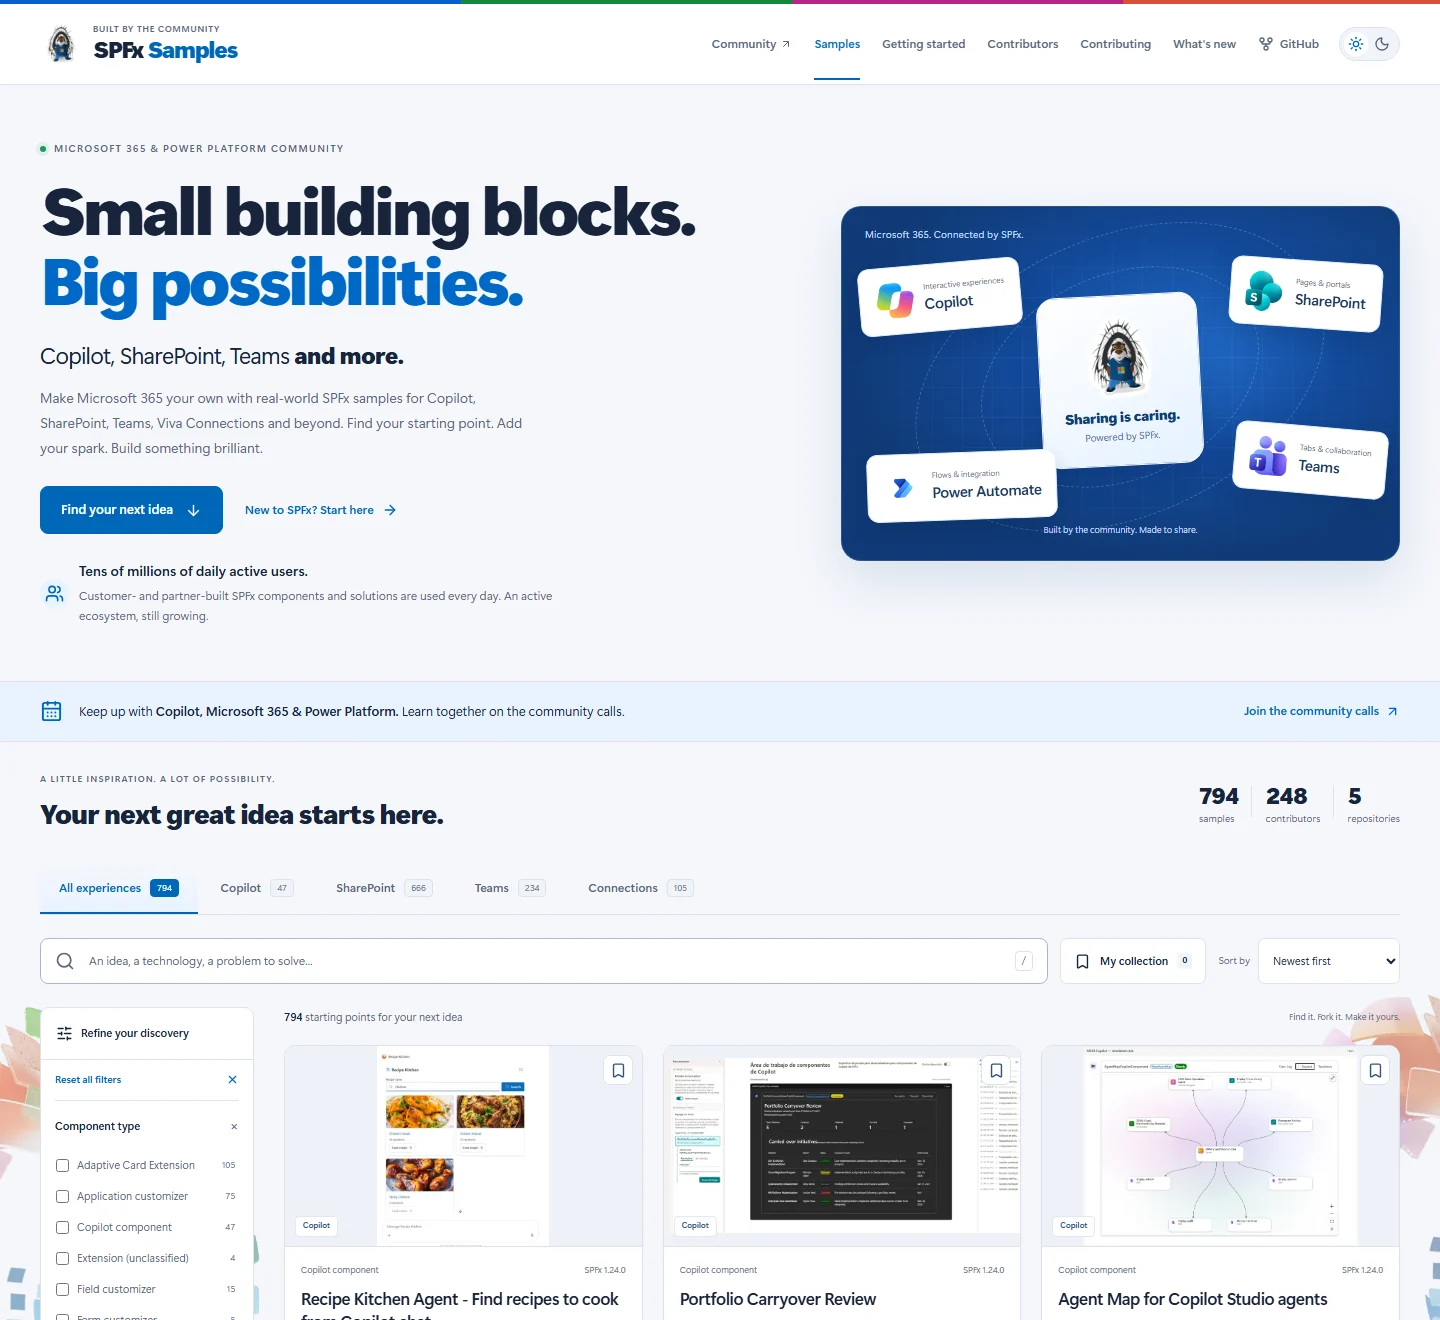
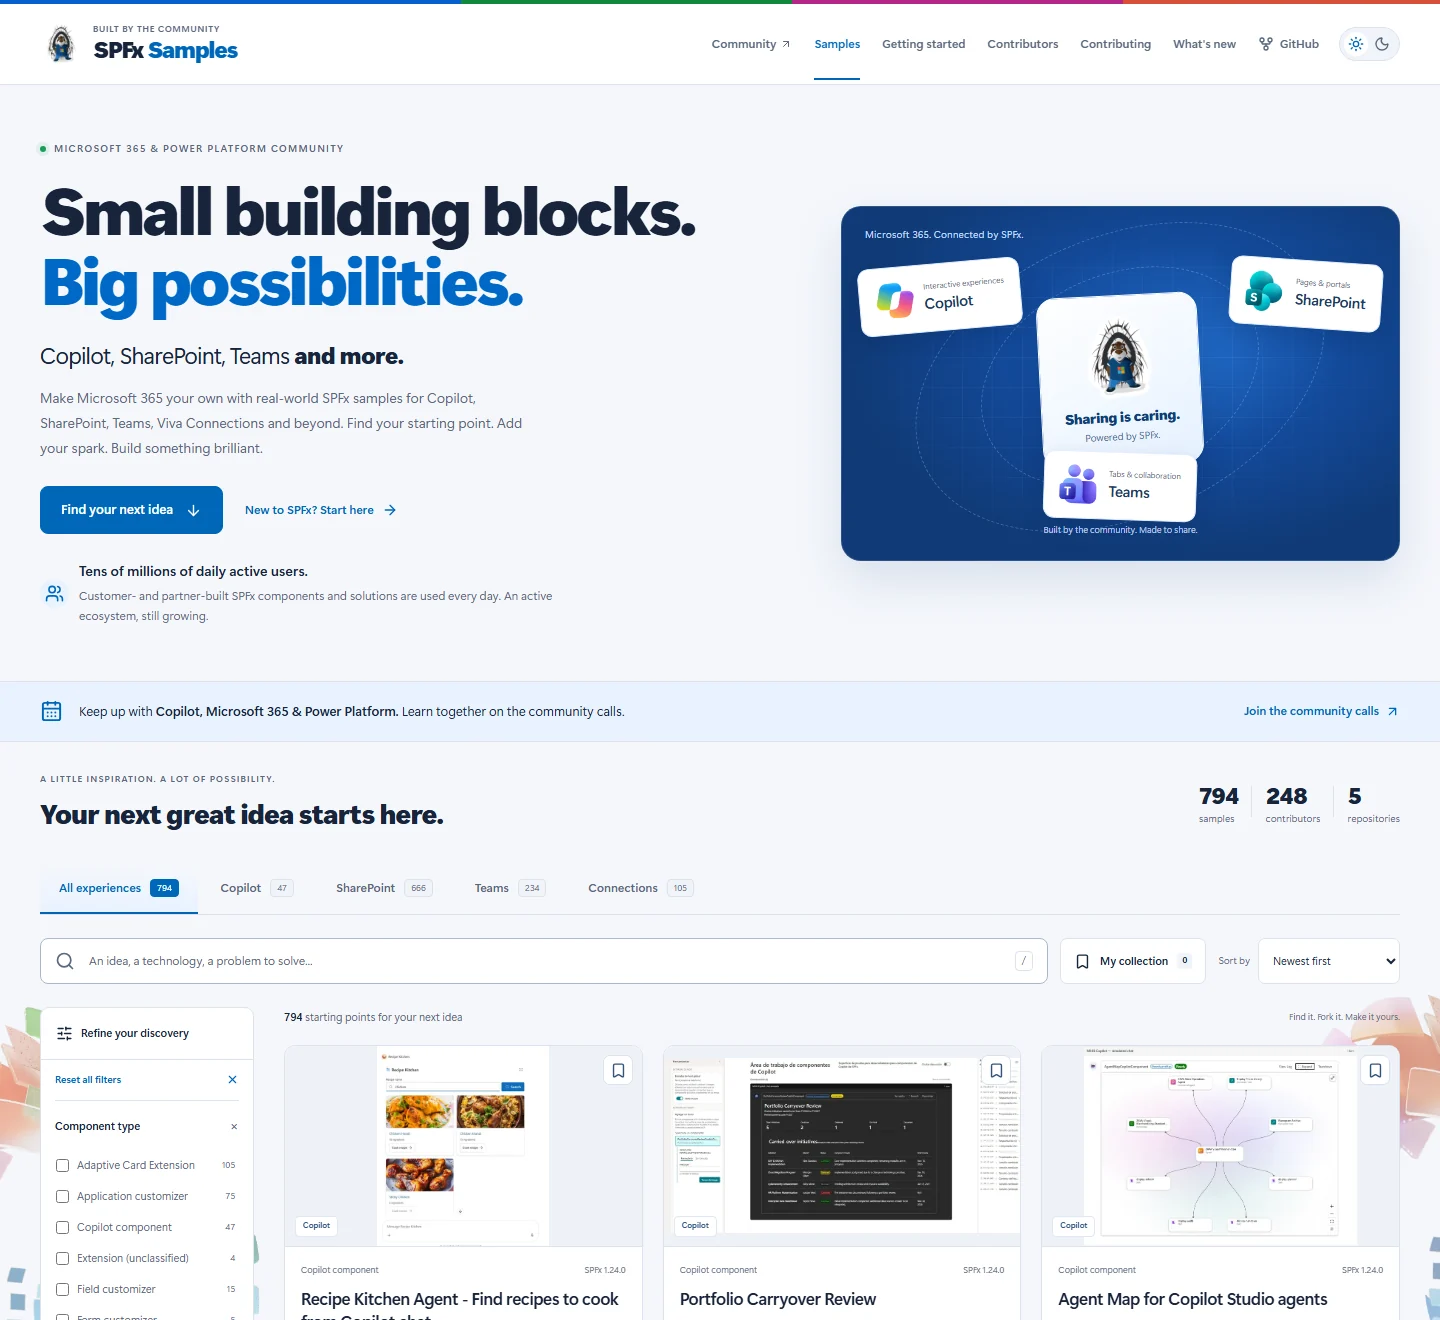
Correct hero scope and reduce contributor badge size
Remove Power Automate from the hero and portal narrative, rebalance Copilot/SharePoint/Teams around Parker, refresh README/social previews, and cap the badge asset at500px while preserving Connections discovery.

Changed region(s): [[0.5938, 0.3106, 0.9688, 0.4038]]

diff --git a/src/styles/global.css b/src/styles/global.css
@@ -551,6 +551,13 @@ html[data-theme='dark'] .theme-moon {
   object-fit: contain;
   flex-shrink: 0;
 }
+.tile-teams {
+  left: 50%;
+  right: auto;
+  top: auto;
+  bottom: 40px;
+  transform: translateX(-50%) rotate(2deg);
+}
 .tile-copilot {
   left: 17px;
   top: 56px;
@@ -560,16 +567,6 @@ html[data-theme='dark'] .theme-moon {
   right: 17px;
   top: 53px;
   transform: rotate(4deg);
-}
-.tile-teams {
-  right: 12px;
-  top: 219px;
-  transform: rotate(5deg);
-}
-.tile-automation {
-  left: 25px;
-  bottom: 40px;
-  transform: rotate(-2deg);
 }
 .art-note {
   position: absolute;
@@ -1888,12 +1885,6 @@ html[data-theme='dark'] .theme-moon {
   .tile-copilot {
     left: 10px;
   }
-  .tile-automation {
-    left: 12px;
-  }
-  .tile-teams {
-    right: 9px;
-  }
   .catalog-layout {
     grid-template-columns: 190px minmax(0, 1fr);
     gap: 22px;
@@ -1954,17 +1945,9 @@ html[data-theme='dark'] .theme-moon {
     top: 50px;
     left: 10px;
   }
-  .tile-teams {
-    right: 9px;
-    top: 234px;
-  }
   .tile-sharepoint {
     right: 9px;
     top: 48px;
-  }
-  .tile-automation {
-    bottom: 37px;
-    left: 12px;
   }
   .art-core {
     width: 142px;
@@ -2057,17 +2040,9 @@ html[data-theme='dark'] .theme-moon {
     left: 11%;
     top: 39px;
   }
-  .tile-teams {
-    right: 8%;
-    top: 236px;
-  }
   .tile-sharepoint {
     right: 8%;
     top: 36px;
-  }
-  .tile-automation {
-    left: 12%;
-    bottom: 30px;
   }
   .art-caption {
     font-size: 9px;
@@ -2372,17 +2347,9 @@ html[data-theme='dark'] .theme-moon {
     left: 8px;
     top: 38px;
   }
-  .tile-teams {
-    right: 8px;
-    top: 238px;
-  }
   .tile-sharepoint {
     right: 8px;
     top: 38px;
-  }
-  .tile-automation {
-    left: 8px;
-    bottom: 32px;
   }
   .art-caption {
     top: 14px;

diff --git a/tests/browser/gallery.spec.ts b/tests/browser/gallery.spec.ts
@@ -329,14 +329,20 @@ test('Connections remains discoverable without a promotional logo', async ({
   ).toHaveText('Connections');
   await expect(page.locator('.hero-art')).not.toContainText('Connections');
   await expect(page.locator('.hero-art .tile-connections')).toHaveCount(0);
-  await expect(page.locator('.hero-art .product-logo')).toHaveCount(4);
+  await expect(page.locator('.hero-art .product-logo')).toHaveCount(3);
+  await expect(page.locator('.hero-art')).not.toContainText('Power Automate');
+  await expect(page.locator('.hero-art')).not.toHaveAttribute(
+    'aria-label',
+    /Power Automate/,
+  );
+  await expect(page.locator('.hero-art .tile-automation')).toHaveCount(0);
 });
 
 test('official artwork and community invitations are available and accessible', async ({
   page,
 }) => {
   await page.goto('./');
-  for (const product of ['copilot', 'sharepoint', 'teams', 'power-automate']) {
+  for (const product of ['copilot', 'sharepoint', 'teams']) {
     const logo = page.locator(`.hero-art img[src$="/brand/${product}.webp"]`);
     await expect(logo).toBeVisible();
     await expect
@@ -360,6 +366,15 @@ test('official artwork and community invitations are available and accessible', 
     'src',
     /\/images\/brand\/contributor-badge\.webp$/,
   );
+  await expect
+    .poll(() =>
+      page
+        .locator('.recognition-panel img')
+        .evaluate((image) =>
+          image instanceof HTMLImageElement ? image.naturalHeight : 0,
+        ),
+    )
+    .toBe(500);
   await expect
     .poll(() =>
       page

diff --git a/todo.md b/todo.md
@@ -84,7 +84,7 @@ The [repair tracker](./sample-tracking.md) distinguishes landed fixes from this 
 
 ### Community refinement (2026-11-07)
 
-- [x] Use the supplied official Copilot, SharePoint, Teams and Power Automate logos with Parker; keep artwork proportional and optimized.
+- [x] Use the supplied official Copilot, SharePoint and Teams logos with Parker; keep artwork proportional and optimized.
 - [x] Remove Connections from hero/promotional logos, while retaining its filtering tab, classifications, relevant text and original source screenshots.
 - [x] Add the supplied contributor badge with opt-in recognition guidance, community-call promotion and demo signup based on availability.
 - [x] Celebrate the customer/partner SPFx ecosystem's tens of millions of daily active users as maintainer-approved context, not fabricated live telemetry.
@@ -92,6 +92,10 @@ The [repair tracker](./sample-tracking.md) distinguishes landed fixes from this 
 - [x] Add the reference gallery's abstract side artwork, real-site README/social previews and root contributor guidance with source and asset attribution.
 - [x] Verify 90 unit tests, 28 desktop/mobile checks and a type check with zero diagnostics; local Lighthouse mobile scores remain **99 performance / 100 accessibility / 100 best practices / 100 SEO**.
 - [x] Publish this refinement: [successful release](https://github.com/pnp/spfx/actions/runs/42382536653). All 28 desktop/mobile checks also passed against the live Pages site, including official assets, community invitations, data-derived counts and preserved Connections filtering.
+
+The hero story is limited to Copilot, SharePoint and Teams with Parker; Power
+Automate is not promoted as part of the SPFx story. The contributor badge is
+capped at 500px intrinsic height while retaining its smaller responsive display sizes.
 
 - [x] Check JSON parsing/root shapes, required text, dates, products, key/value metadata, authors, previews and references.
 - [x] Check names/URLs for duplicates and verify sample links belong to the correct repository and sample directory.

diff --git a/README.md b/README.md
@@ -68,8 +68,8 @@ so the same command works after a clean checkout and source refresh.
 
 ## The experience
 
-- Microsoft 365-first, with official **Copilot, SharePoint, Teams and Power
-  Automate** logos alongside Parker. **Connections remains a discovery tab and
+- Microsoft 365-first, with official **Copilot, SharePoint and Teams**
+  logos alongside Parker. **Connections remains a discovery tab and
   part of the text**, but no longer has a promotional hero logo.
 - Search across sample text, technology, source and contributors.
 - Combined component, technology, SPFx-version and source filters: OR within a

diff --git a/.metadata/quality-report.md b/.metadata/quality-report.md
@@ -1,6 +1,6 @@
 # SPFx sample metadata quality report
 
-Collected: 2026-11-07T14:16:10.356Z. Audited: 2026-11-07T14:33:00.865Z.
+Collected: 2026-11-07T14:16:10.356Z. Audited: 2026-11-07T15:56:49.736Z.
 
 This is a metadata/content audit, not a sample build or a visual review. Older SPFx versions are not defects.
 Errors and warnings are retained; parseable records are not silently discarded or deduplicated.
